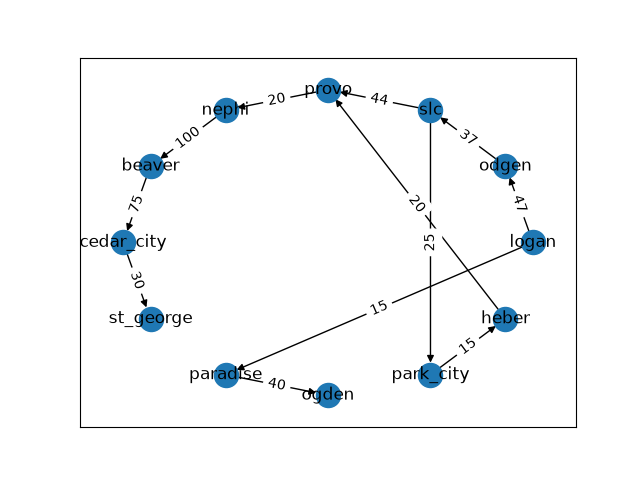
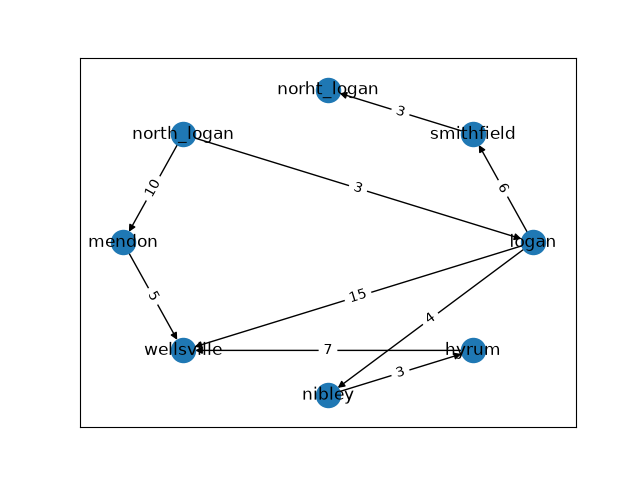
notes from class

diff --git a/class_notes/graphs_notes/city_graph.py b/class_notes/graphs_notes/city_graph.py
@@ -1,0 +1,36 @@
+# Shortest path from wellsville to smithfield
+
+### Create graph: 
+edges = []
+
+for line in file.readlines():
+    node1, node2, weight = line.split(",")
+    weight = int(weight)
+    edges.append((node1, node2, weight)) # add edge to a list of tuples
+    
+print(edges)
+g.add_weighted_edges_from(edges) 
+
+
+### Traverse: 
+
+for n1, n2 in permutations(g.nodes,2): #permutations returns all pairs
+    print("all existing paths from", n1, "to", n2, ":")
+    
+    # all_simple_paths function below returns each path as a list
+    # the graph can be accessed with the nodes as keys, like a dictionary
+    # g['v0']['v1']['weight'] returns 2, the weight of that edge
+    # iterating through the edges in a path, you can calculate the weight of the entire path
+    
+    for path in nx.all_simple_paths(g, source=n1, target=n2):
+        print(path) # print each path
+        path_weight = 0
+        
+        # iterating through each edge in the path and adding edge weight to total path weight
+        for i in range(len(path) - 1):
+            path_weight += g[path[i]][path[i+1]]['weight']
+            current_path_weight
+            if path_weight < current_path_weight: 
+                current_path_weight = path_weight
+        print("path_weight: ", path_weight)
+
